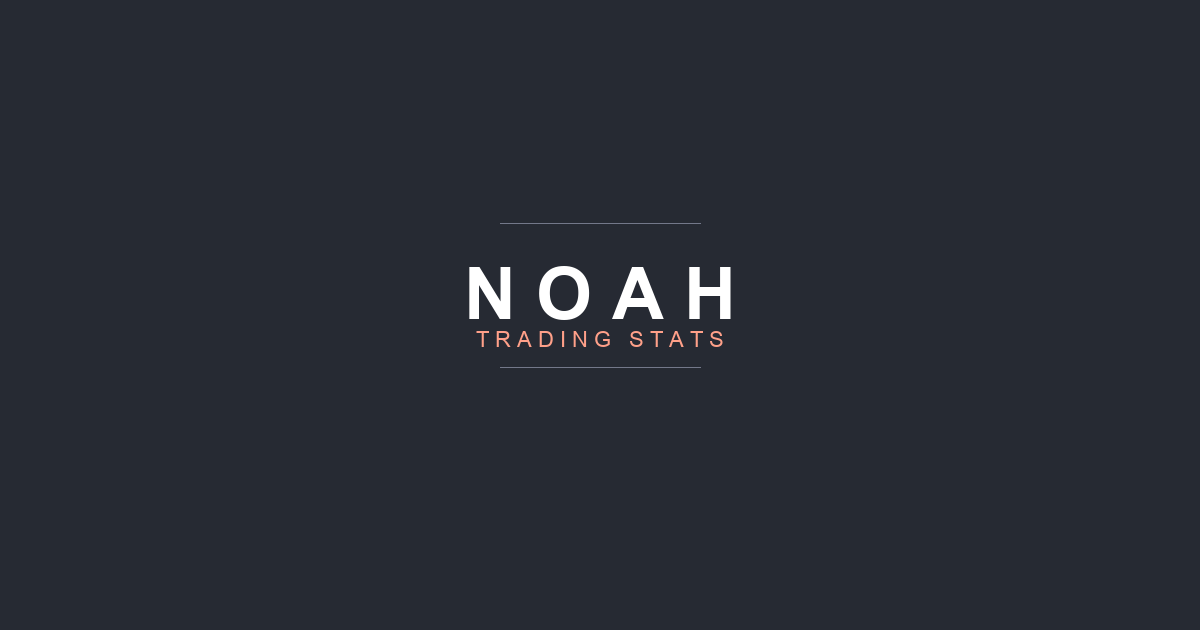
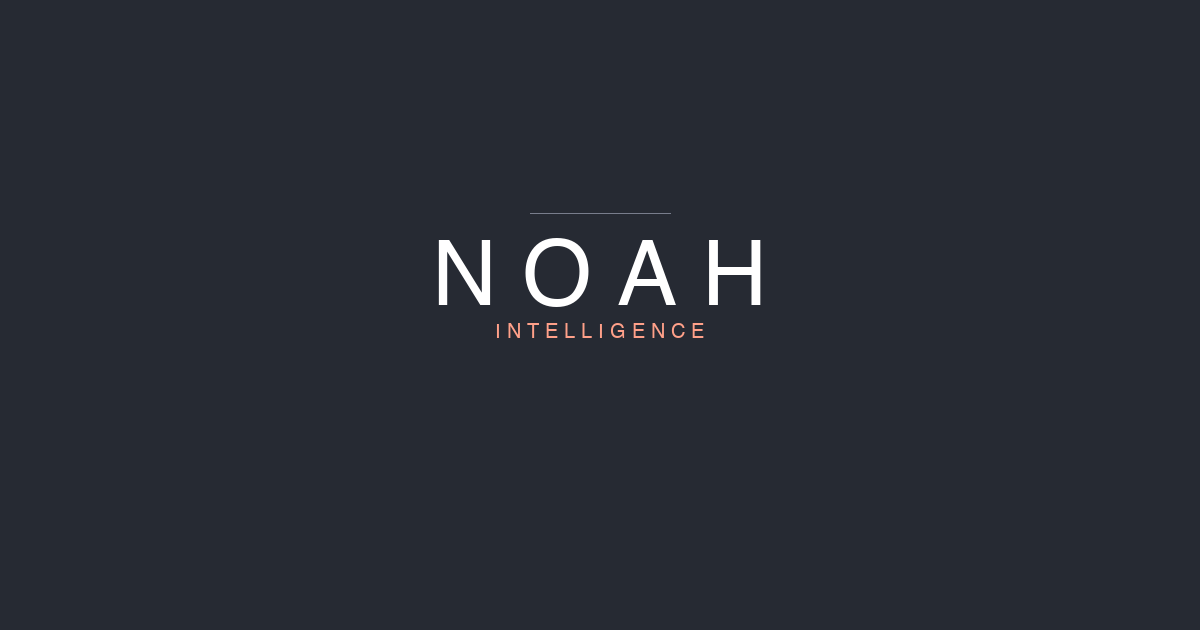
Larger OG sharing image + public disclaimer in footer

Changed region(s): [[0.3392, 0.3317, 0.6475, 0.573]]

diff --git a/index.html b/index.html
@@ -675,6 +675,12 @@ body {
         <a href="https://ivanmassow.github.io/hedgefund-tracker/">Hedge Fund</a> &middot;
         <a href="https://ivanmassow.github.io/company-watch/">Company Watch</a>
     </div>
+    <div style="margin-top:1.5rem;max-width:640px;margin-left:auto;margin-right:auto;padding:0 1rem">
+        <p style="font-size:0.68rem;color:rgba(255,241,229,0.3);line-height:1.6;text-align:center">
+            <strong style="color:rgba(255,241,229,0.45)">Disclaimer</strong><br>
+            You are welcome to view these pages. The trading algorithms and analysis presented here are experimental and under active development. Nothing on this site constitutes financial advice. We accept no responsibility for any losses incurred from acting on information found here. These pages are intended for internal research purposes. You are strongly advised to conduct your own due diligence before making any investment decisions.
+        </p>
+    </div>
 </footer>
 
 <script>
